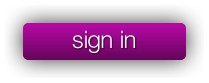
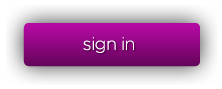
fix on YouTube Thumb Nails when logged out

Changed region(s): [[0.0861, 0.241, 0.9187, 0.7711], [0.3445, 0.3614, 0.6603, 0.6506]]

diff --git a/Resources/lib/commons.js b/Resources/lib/commons.js
@@ -64,7 +64,11 @@ function humane_date(date_str){
 // = FUNCTION TO GET VIDEO THUMBNAILS =
 // ====================================
 var getVideoData = function(pContent, callback) {
-	var videoId, videoThumb;
+
+	//Loop to present the Search Results for YouTube
+	var results = [];
+	
+	var videoId, videoThumb, videoLink;
 	
 	if (pContent.indexOf("vimeo") != -1){
 	//	Ti.API.debug("Found Vimeo Video: " + pContent);
@@ -96,11 +100,16 @@ var getVideoData = function(pContent, callback) {
 			callback(videoThumb, data);
 	    };
 	
-		eContent = encodeURIComponent(pContent);
-	    xhr.open('GET','http://vimeo.com/api/oembed.json?maxwidth=640&maxheight=385&url=' + eContent);
+		//eContent = encodeURIComponent(pContent);
+	    xhr.open('GET','http://vimeo.com/api/oembed.json?maxwidth=640&maxheight=385&url=' + pContent);
 		xhr.setRequestHeader('X-Requested-With', '');
 		xhr.send();
+		
 	} else {
+		
+		videoId = pContent.match(/v.([a-zA-Z0-9_-]{11})&?/)[1];
+		videoLink = "http://youtube.com/watch?v=" + videoId;
+		
 		//ELSE YOUTUBE
 		var xhr = Titanium.Network.createHTTPClient();
 	
@@ -121,20 +130,19 @@ var getVideoData = function(pContent, callback) {
 	
 	    xhr.onload = function(e) {
 			var data = JSON.parse(this.responseText);
+			
+			Ti.API.info('YouTube Response: ' + JSON.stringify(data));
 
 	        videoThumb = data.thumbnail_url;
-		//	Ti.API.debug('got thumbnail for YouTube: ' + videoThumb);
+			Ti.API.debug('got thumbnail for YouTube: ' + videoThumb);
 			
 			callback(videoThumb, data);
 	    };
 	
-		eContent = encodeURIComponent(pContent);
-	    xhr.open('GET','http://www.youtube.com/oembed?format=json&maxwidth=640&maxheight=385&url=' + eContent);
+		//eContent = encodeURIComponent(pContent);
+	    xhr.open('GET','http://www.youtube.com/oembed?format=json&url=' + videoLink);
 		xhr.setRequestHeader('X-Requested-With', '');
 		xhr.send();
-		
-		// http://www.youtube.com/oembed?url=http%3A//www.youtube.com/watch%3Fv%3DbDOYN-6gdRE&format=xml
-		callback(videoThumb, data);
 	}
 };
 

diff --git a/Resources/app.js b/Resources/app.js
@@ -18,23 +18,57 @@ var win1 = Titanium.UI.createWindow({
 
 var logoHeader = Titanium.UI.createImageView({
 	image:'images/logo_header.png',
-	top:-5,
-	left:3,
-	width:236,
-	height:106
+	top: 27,
+	left: 34,
+	width: 194,
+	height: 47
 });
 win1.add(logoHeader);
 
 var btn_signin = Titanium.UI.createButton({
 	backgroundImage:'images/btn_signin_top.png',
 	top: 5,
-	left: 803,
-	width:209, //actual: 163
-	height:83, //actual: 37
+	left: 795,
+	width:222, //actual: 176
+	height:89, //actual: 43
 	opacity:1,
 	visible: false
 });
 win1.add(btn_signin);
+
+var btn_signup = Titanium.UI.createButton({
+	backgroundImage:'images/btn_signup.png',
+	top: 5,
+	left: 450,
+	width: 352, //actual: 306
+	height: 89, //actual: 43
+	opacity:1,
+	visible: false
+});
+win1.add(btn_signup);
+
+//Alert to Open Safari for the Post Permalink
+var alertOpenSignUp = Titanium.UI.createAlertDialog({
+	title: 'Create your account',
+	message: 'We will open the SignUp page on Safari',
+	buttonNames: ['OK','Cancel'],
+	cancel: 1
+});
+
+btn_signup.addEventListener("click", function(e)
+{
+	alertOpenSignUp.show();
+});
+
+
+// Opens the Permalink page on Safari
+alertOpenSignUp.addEventListener('click',function(e)
+{
+	if (e.index == 0){
+		// Open Link to the Guidelines Page on Safari
+		Ti.Platform.openURL("http://meme.yahoo.com/confirm");	
+	}
+});
 
 // ====================
 // = LOGGED IN HEADER =
@@ -154,6 +188,7 @@ var showHeader = function (yql, pType, pWinDashboard){
 		
 		// NOT LOGGED IN
 		btn_signin.visible = true;
+		btn_signup.visible = true;
 		headerView.hide();
 	}
 
@@ -210,8 +245,10 @@ var showDashboard = function(yql,pDashboardType) {
 	if (pDashboardType === "logged") {
 		showHeader(yql, pDashboardType, winDashboard);
 		btn_signin.visible = false;
+		btn_signup.visible = false;
 	} else {
 		btn_signin.visible = true;
+		btn_signup.visible = true;
 	}
 };
 

diff --git a/Resources/dashboard.js b/Resources/dashboard.js
@@ -124,8 +124,9 @@ var createPost = function(pContent, pCaption, pPubId, pPostUrl, pType, pColumn, 
 	
 	// create an Video view
 	if (pType == "video") {	
+		
 		getVideoData(pContent, function(_videoThumb) {
-		//	Ti.API.debug('my video thumb is [' + _videoThumb + ']');
+			Ti.API.debug('my video thumb is [' + _videoThumb + ']');
 
 			var postImageView = Ti.UI.createImageView({
 				image: _videoThumb,
@@ -275,13 +276,11 @@ var getDashboardData = function (pTimestamp, pDashboardType){
 			tempItemRowCount = 0;
 			
 			Ti.API.info(" ####### STARTING DASHBOARD QUERY ##########");
-	
 			yqlQuery = "SELECT * FROM meme.user.dashboard | meme.functions.thumbs(width=307,height=231)";
 		
 		} else {
 	
 			Ti.API.info(" ####### STARTING UPDATE 'PRA BAIXO' QUERY ##########");
-		
 			yqlQuery = "SELECT * from meme.user.dashboard where start_timestamp =" + (pTimestamp-1) + " | meme.functions.thumbs(width=307,height=231)";
 
 		}
@@ -322,7 +321,6 @@ var getDashboardData = function (pTimestamp, pDashboardType){
 	// create THE TABLE ROWS
 	for (var k=0; k < posts.length; k++)
 	{
-
 		var post 		= posts[k];
 		var _caption 	= post.caption;
 		var _pubId 		= post.pubid;
@@ -340,16 +338,7 @@ var getDashboardData = function (pTimestamp, pDashboardType){
 			{
 				case 'photo':
 				{	
-					// If Flick 
-					// if (post.content.content.indexOf("flickr") != -1)
-					// {
-					// 	var _content = post.content.content;
-					// 	//Ti.API.info('Content From Flickr:' + _content)
-					// 	
-					// } else {
-						var _content = post.content.thumb;
-					// }
-								
+					var _content = post.content.thumb;			
 					break;
 				}
 				case 'video':

diff --git a/Resources/newpost.js b/Resources/newpost.js
@@ -64,9 +64,9 @@ var queryText = "";
 
 var searchTextField = Titanium.UI.createTextField({
 	value: 			queryText,
-	hintText: 		'Do a search to illustrate your post',
+	hintText: 		'Paste YouTube links or make a search to illustrate your post',
 	textAlign: 		'left',
-	font: 			{fontSize:16,fontFamily:'Helvetica', fontWeight:'regular'},
+	font: 			{fontSize:14,fontFamily:'Helvetica', fontWeight:'regular'},
 	width: 			446,
 	height: 		41,
 	top: 			14,
@@ -458,7 +458,7 @@ var flashlight_text_change_monitor = function(new_monitor_value) {
 	//        if ($flickr_match) {
 	//            return $flickr_match[1];
 	//        } else {
-	//            $farm_url = preg_match('/flickr\.com\/[0-9]+\/([0-9]+)_(./i', $url, $farm_match);
+	//            $farm_url = preg_match('/flickr\.com\/[0-9]+\/([0-9]+)_(.*)/i', $url, $farm_match);
 	
 	if (youtubeVideoArray != null && youtubeVideoArray != undefined) {
 		
